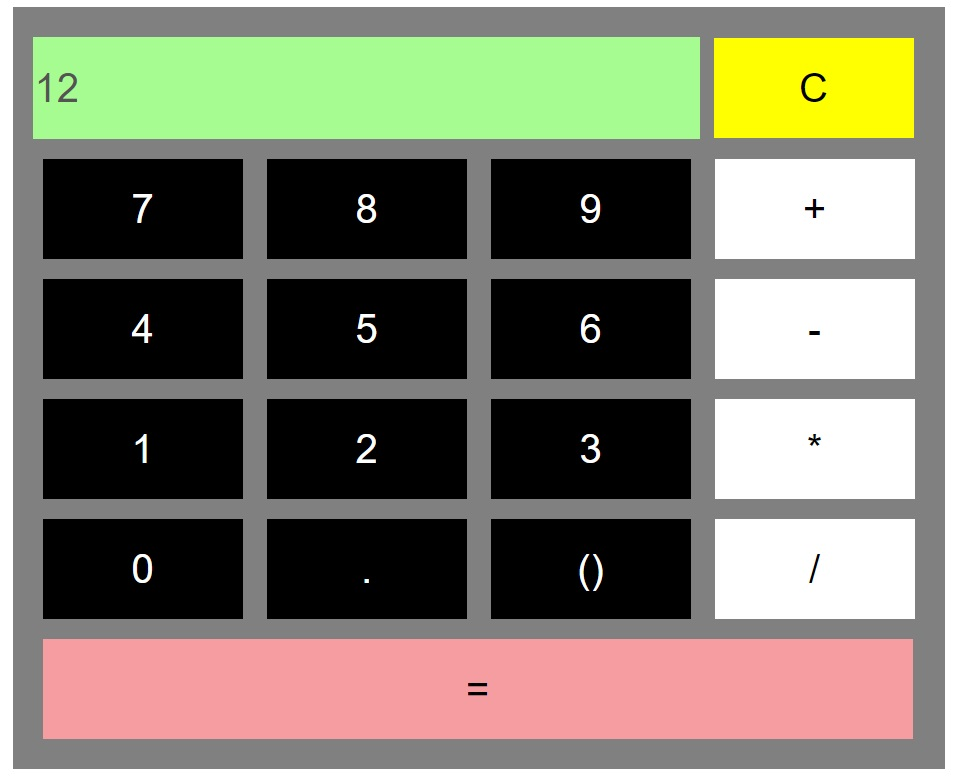
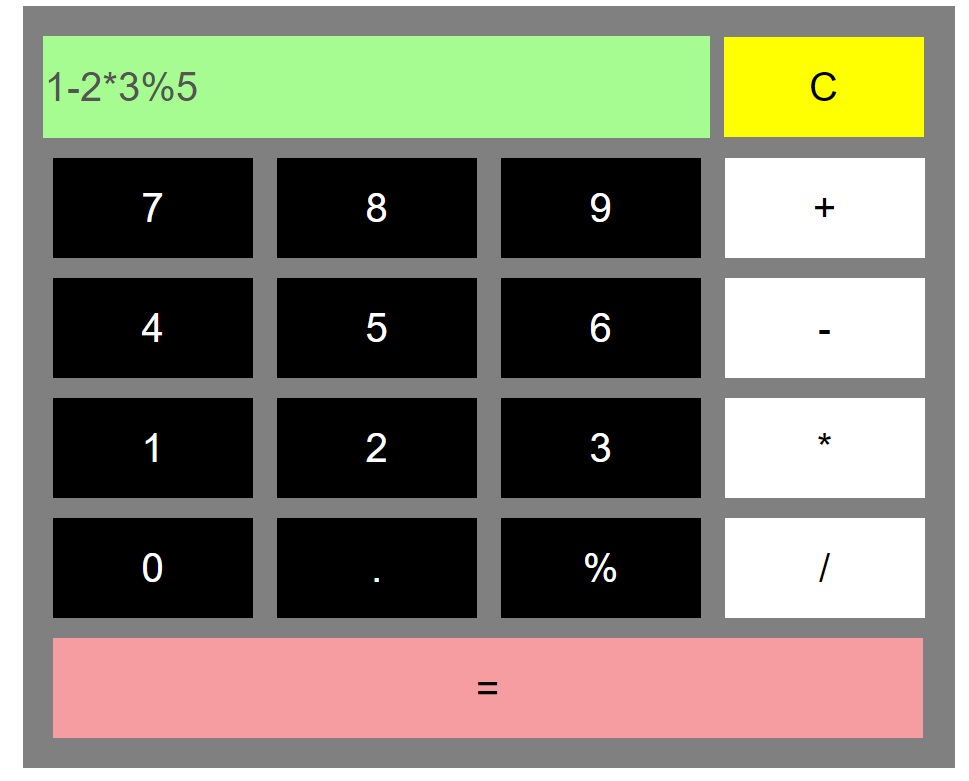
Changed parentheses to mod, to work with eval function

diff --git a/index.html b/index.html
@@ -34,7 +34,7 @@
             <div class = "number-row">
                 <button class="numbers" onclick="display('0')">0</button>
                 <button class="numbers dot" onclick="display('.')">.</button>
-                <button class="numbers" onclick="checkPar()">()</button>
+                <button class="numbers" onclick="display('%')">%</button>
                 <button class="operation" onclick="display('/')">/</button>
             </div>
             <button class="equal">=</button>

diff --git a/README.md b/README.md
@@ -5,7 +5,7 @@
 - Subtraction
 - Multiplication
 - Division
-- Parentheses
+- Mod
 - Clear
 
 ![image info](Calculator.jpg)
